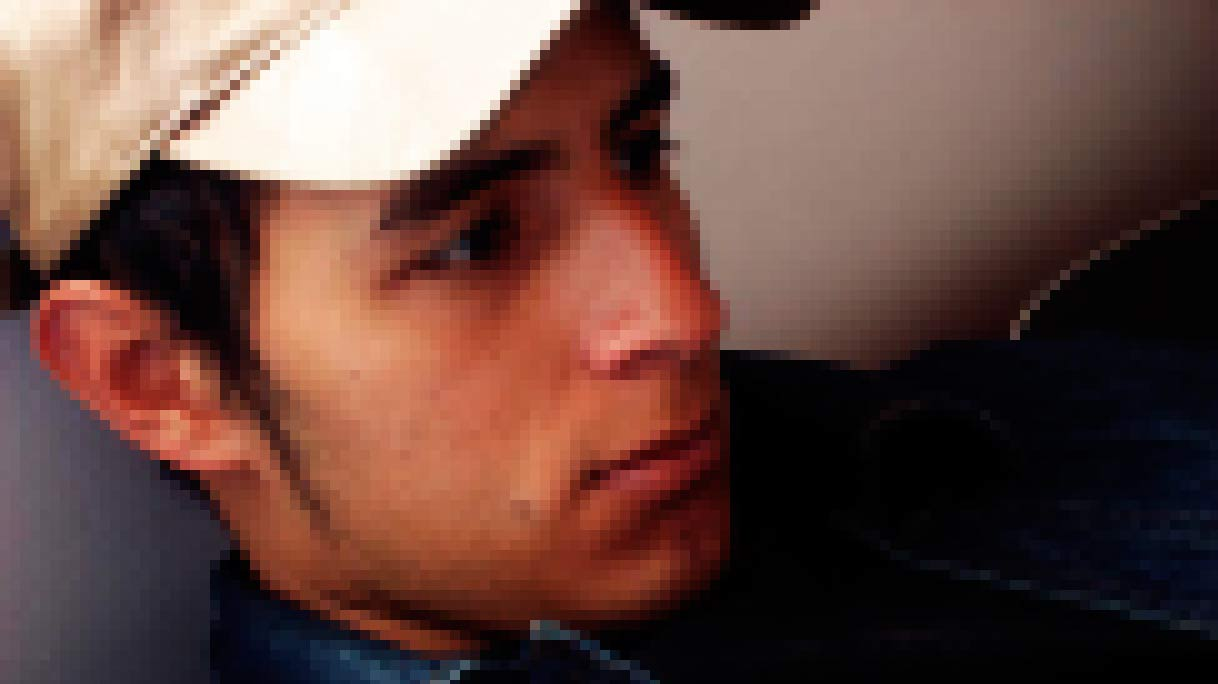
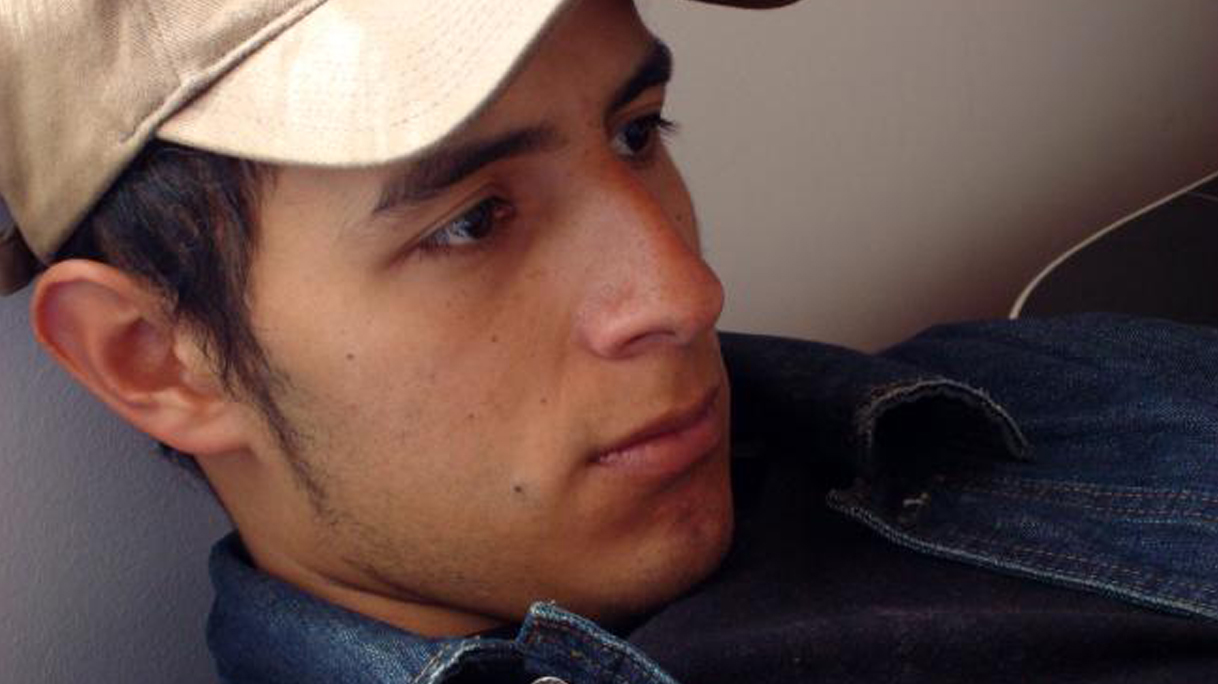
Sections images and styles

diff --git a/index.html b/index.html
@@ -15,11 +15,12 @@
 		    <div class="parallax">
 				<div id="group1" class="parallax__group">
 					<div class="parallax__layer parallax__layer--base">
-						<div id="profileTextContainer">
+						<!-- <div id="profileTextContainer">
 							<h1 class="introTitle wf-loading">Welcome to my Portfolio</h1>
 							<p class="introP"> I'm a professional Graphic Designer radicated in Bogotá, Colombia. Although enjoy the visual component of a project, I'm also very interested to program and animate components, that's why I apply Javascript in a daily basis to my works. I also have studies on electronics and music, because you know, you have to ocuppy your brain. I really hope you like your visit and if you want to see my CV just click the button below. ¡Carpe Noctem!			
 							</p>
-						</div>
+						</div> -->
+						<div id="worksTitle" class="title wf-loading">About</div>
 					</div>
 				</div>
 
@@ -27,28 +28,22 @@
 					<div class="parallax__layer parallax__layer--base">
 						<div id="worksTitle" class="title wf-loading">Works</div>
 					</div>
-					<div class="parallax__layer parallax__layer--back">
-						<div class="title"></div>			
-					</div>
+					<div class="parallax__layer parallax__layer--back"></div>
 				</div>
 
 				<div id="group3" class="parallax__group" go-click="videogames">
 					<div class="parallax__layer parallax__layer--fore">
 						<div id="gamesTitle" class="title wf-loading">Games</div>
 					</div>
-					<div class="parallax__layer parallax__layer--base">
-						<div class="title"></div>
-					</div>
+					<div class="parallax__layer parallax__layer--base"></div>
 				</div>
 
 				<div id="group4" class="parallax__group" go-click="experiments">
 					<div class="parallax__layer parallax__layer--base">
 						<div id="sandboxTitle" class="title wf-loading">Sandbox</div>
 					</div>
-					<div class="parallax__layer parallax__layer--back">
-					</div>
+					<div class="parallax__layer parallax__layer--back"></div>
 					<div class="parallax__layer parallax__layer--deep">
-						<div class="title"></div>
 						<div id="stage">
 							<img class="spinner" src="img/image.svg" style="width:100%; "></img>
 							<img class="spinner spinnerDegrees" src="img/image.svg" style="width:100%; "></img>
@@ -60,9 +55,7 @@
 					<div class="parallax__layer parallax__layer--fore">
 						<div id="artsTitle" class="title wf-loading">Arts</div>
 					</div>
-					<div class="parallax__layer parallax__layer--base">
-						<div class="title"></div>
-					</div>
+					<div class="parallax__layer parallax__layer--base"></div>
 				</div>
 			</div>
 	    </script>

diff --git a/css/styles.css b/css/styles.css
@@ -466,21 +466,21 @@ md-button {
   z-index: 5; /* slide over group 2 */
 }
 #group1 .parallax__layer--base {
-  background: #fff;
+  background: #000;
 }
 
 #group2 {
   z-index: 3; /* slide under groups 1 and 3 */
 }
 #group2 .parallax__layer--back {
-  background: url(../img/img02.jpg) center;
+  background: url(../img/img02.png) center;
 }
 
 #group3 {
   z-index: 4; /* slide over group 2 and 4 */
 }
 #group3 .parallax__layer--base {
-  background: rgb(153,216,101);
+  background: url(../img/img03.jpg) center;
 }
 
 #group4 {
@@ -495,7 +495,7 @@ md-button {
   z-index: 3; /* slide over group 4 and 6 */
 }
 #group5 .parallax__layer--base {
-  background: rgb(214,229,100);
+  background: url(../img/img05.jpg) center;
 }
 
 #group6 {
